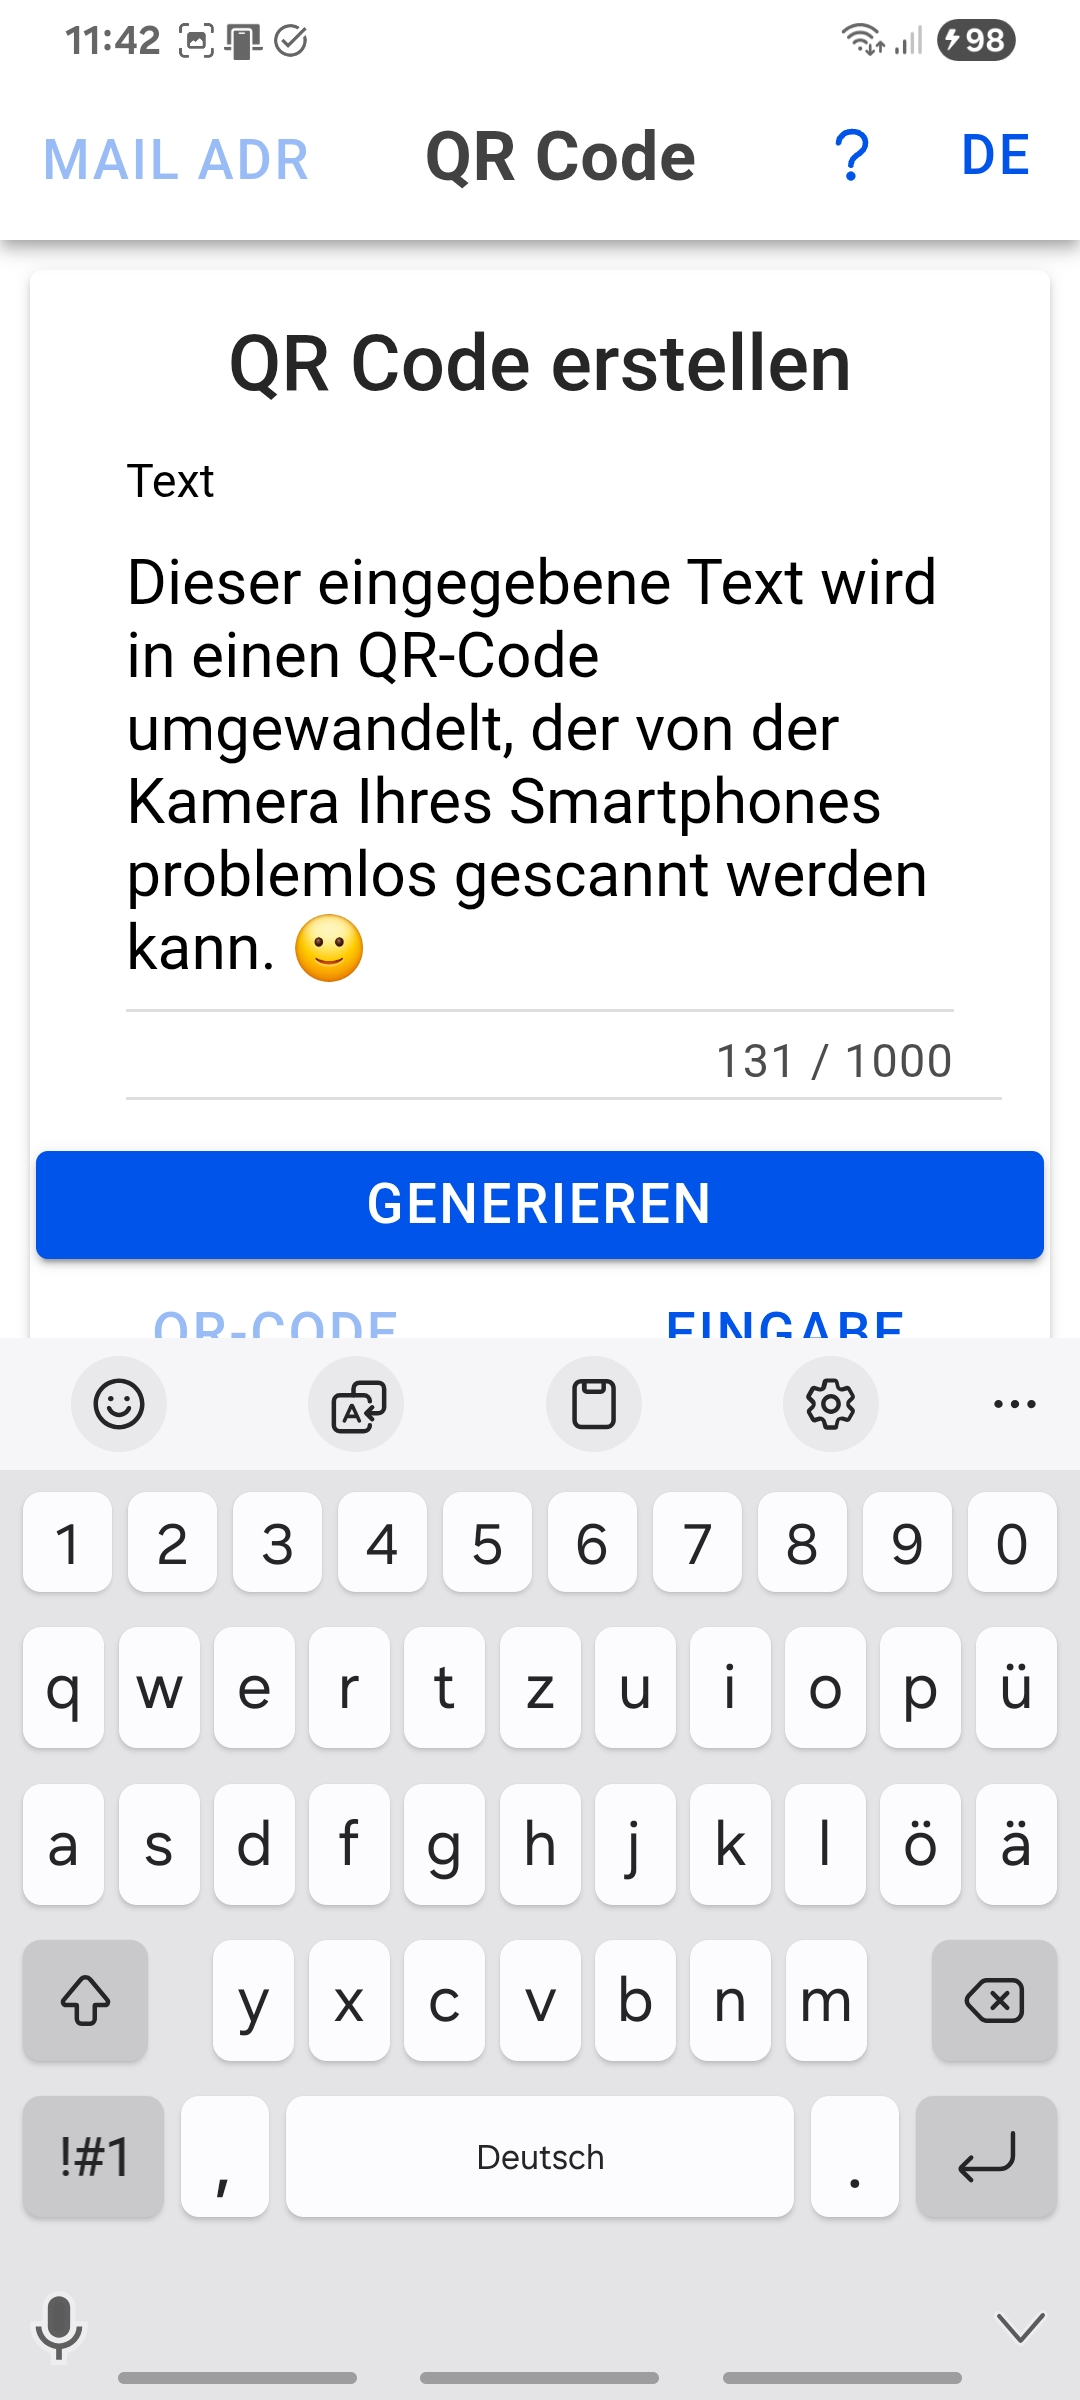
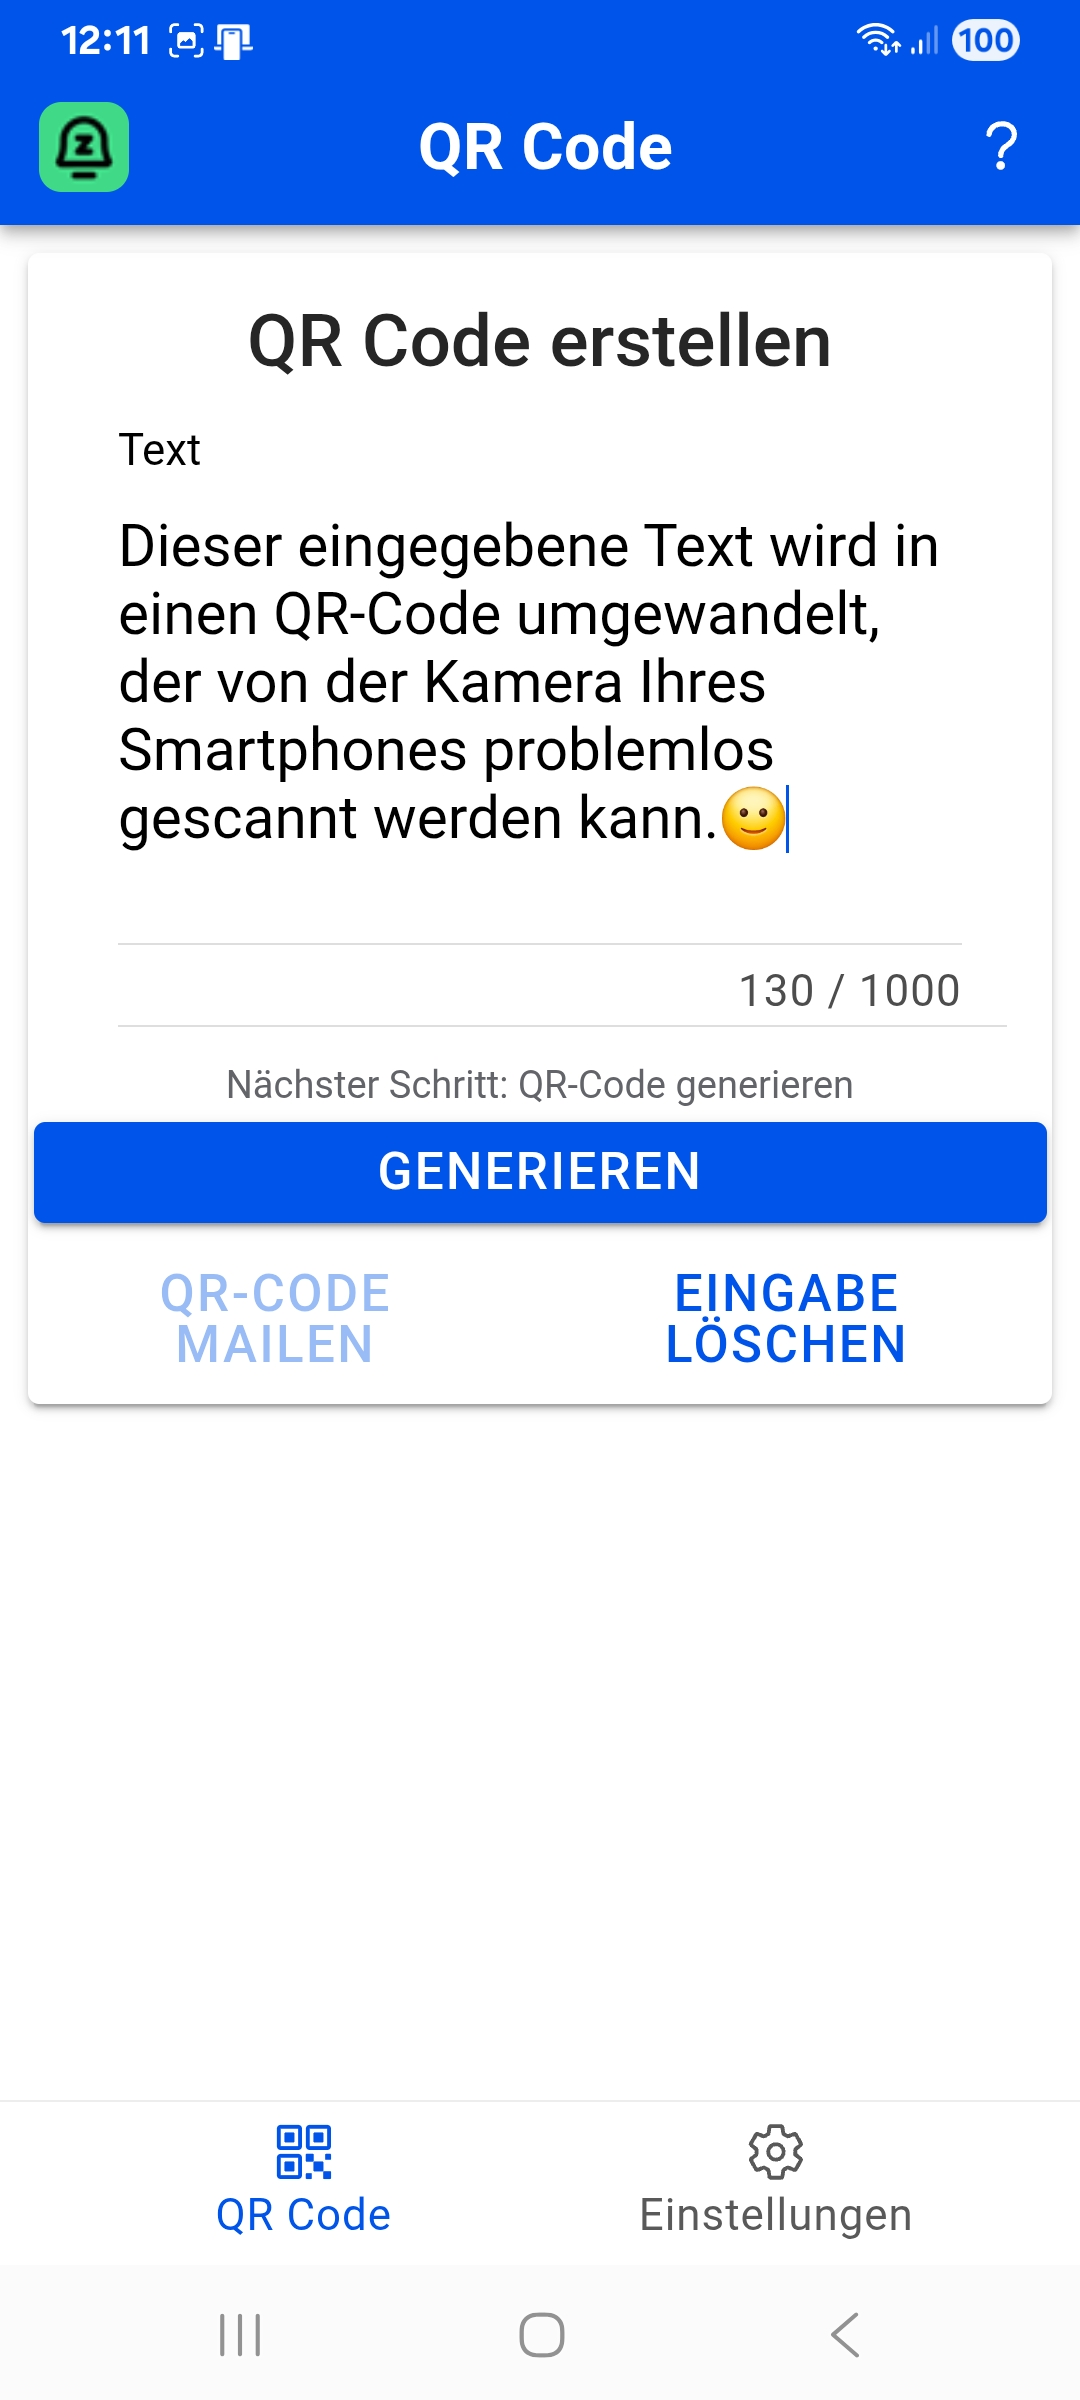
fix: display toast notifications below app header to prevent overlap
- Toast notifications are now shown below the app header, ensuring they are always visible and not obscured on any device.
- Updated screenshots for Google Play promotion.

diff --git a/src/app/tab-qr/tab-qr.page.ts b/src/app/tab-qr/tab-qr.page.ts
@@ -63,7 +63,7 @@ export class TabQrPage implements OnInit, OnDestroy {
     private readonly alertController: AlertController,
     private readonly alertService: AlertService,
     private readonly toastService: ToastService,
-    private readonly printUtilsService: PrintUtilsService,
+    private readonly printUtilsService: PrintUtilsService
   ) {
     this.setNumberOfRows();
     this.langSub = this.localStorage.selectedLanguage$.subscribe((lang) => {
@@ -220,7 +220,7 @@ export class TabQrPage implements OnInit, OnDestroy {
   handleSendEmailButtonClick() {
     if (!this.qrService.isQrCodeGenerated) {
       this.toastService
-        .showDisabledToast('TOOLTIP_EMAIL_NO_QR_GENERATED')
+        .showDisabledToast('TOOLTIP_EMAIL_NO_QR_GENERATED', 'toast-anchor-qr')
         .catch((error) => {
           console.error('Error presenting toast:', error);
         });
@@ -235,19 +235,28 @@ export class TabQrPage implements OnInit, OnDestroy {
     // show toast if disabled or generate qr code
     if (this.isInputFieldEmpty()) {
       this.toastService
-        .showDisabledToast('TOOLTIP_GENERATION_ENTER_TEXT_FIRST')
+        .showDisabledToast(
+          'TOOLTIP_GENERATION_ENTER_TEXT_FIRST',
+          'toast-anchor-qr'
+        )
         .catch((error) => {
           console.error('Error presenting toast:', error);
         });
     } else if (this.emailService.isEmailSent) {
       this.toastService
-        .showDisabledToast('TOOLTIP_GENERATION_EMAIL_ALREADY_SENT')
+        .showDisabledToast(
+          'TOOLTIP_GENERATION_EMAIL_ALREADY_SENT',
+          'toast-anchor-qr'
+        )
         .catch((error) => {
           console.error('Error presenting toast:', error);
         });
     } else if (this.qrService.isQrCodeGenerated) {
       this.toastService
-        .showDisabledToast('TOOLTIP_GENERATION_QR_ALREADY_GENERATED')
+        .showDisabledToast(
+          'TOOLTIP_GENERATION_QR_ALREADY_GENERATED',
+          'toast-anchor-qr'
+        )
         .catch((error) => {
           console.error('Error presenting toast:', error);
         });
@@ -295,7 +304,8 @@ export class TabQrPage implements OnInit, OnDestroy {
     if (data.length !== trimmedData.length) {
       this.qrDataInput.value = trimmedData;
       this.toastService.showToast(
-        this.translate.instant('TOAST_TRAILING_BLANKS_REMOVED')
+        this.translate.instant('TOAST_TRAILING_BLANKS_REMOVED'),
+        'toast-anchor-qr'
       );
     }
     return trimmedData;
@@ -317,7 +327,8 @@ export class TabQrPage implements OnInit, OnDestroy {
       this.emailService.clearEmailSent();
       this.qrService.clearQrFields();
       this.toastService.showToast(
-        this.translate.instant('TOAST_QR_CODE_DELETED_AFTER_INPUT_CHANGE')
+        this.translate.instant('TOAST_QR_CODE_DELETED_AFTER_INPUT_CHANGE'),
+        'toast-anchor-qr'
       );
     }
   }

diff --git a/src/app/services/toast.service.ts b/src/app/services/toast.service.ts
@@ -14,39 +14,28 @@ export class ToastService {
     private readonly utilsService: UtilsService
   ) {}
 
-  async showDisabledToast(toastMsg: string) {
+  async showDisabledToast(toastMsg: string, anchorId?: string) {
     const translatedMsg = this.translate.instant(toastMsg);
 
-    const toast = await this.toastController.create({
-      message: translatedMsg,
-      duration: 3000,
-      position: this.getToastPosition(),
-      icon: 'information-circle',
-      color: 'medium',
-      buttons: [
-        {
-          text: 'OK',
-          role: 'cancel',
-        },
-      ],
-    });
-    await toast.present();
-  }
-
-  showToast(translatedToastMessage: string): void {
-    this.showToastMessage(translatedToastMessage).catch((error) => {
+    this.showToastMessage(translatedMsg, anchorId).catch((error) => {
       console.error('Error presenting toast:', error);
     });
   }
 
-  async showToastMessage(translatedToastMessage: string) {
+  showToast(translatedToastMessage: string, anchorId?: string): void {
+    this.showToastMessage(translatedToastMessage, anchorId).catch((error) => {
+      console.error('Error presenting toast:', error);
+    });
+  }
+
+  async showToastMessage(translatedToastMessage: string, anchorId?: string) {
     const toast = await this.toastController.create({
       message: translatedToastMessage,
       duration: 3000,
       icon: 'information-circle',
       color: 'medium',
       position: this.getToastPosition(),
-      positionAnchor: this.getToastAnchor(),
+      positionAnchor: this.getToastAnchor(anchorId),
       buttons: [
         {
           icon: 'close',
@@ -65,11 +54,11 @@ export class ToastService {
     return 'top';
   }
 
-    private getToastAnchor(): 'app-header' | '' {
+  private getToastAnchor(anchorId?: string): string {
     if (this.utilsService.isDesktop) {
       return '';
     }
     // On mobile devices, display toast below the header prevent it from being obscured by the header bar.
-    return 'app-header';
+    return anchorId || 'toast-anchor-settings';
   }
 }

diff --git a/src/global.scss b/src/global.scss
@@ -44,6 +44,12 @@ ion-app {
   padding: 0 16px;
 }
 
+#toast-anchor-qr,
+#toast-anchor-settings {
+  margin: 0;
+  padding: 0;
+}
+
 .web-app ion-header {
   margin-top: -25px !important;
 }
@@ -97,7 +103,8 @@ ion-header ion-toolbar:first-of-type {
   }
 }
 
-@media (orientation: landscape) {
+@media (orientation: landscape) and (max-height: 500px) {
+  // exclude tablets
   .native-app {
     .buttons-last-slot {
       margin-right: 36px;

diff --git a/src/app/tab-qr/tab-qr.page.html b/src/app/tab-qr/tab-qr.page.html
@@ -1,4 +1,6 @@
-<app-header [currentTab]="Tab.Qr"></app-header>
+<div id="toast-anchor-qr">
+  <app-header [currentTab]="Tab.Qr"></app-header>
+</div>
 <ion-content
   class="qr-code-content"
   [class.landscape]="!utilsService.isPortrait"

diff --git a/src/app/tab-settings/tab-settings.page.html b/src/app/tab-settings/tab-settings.page.html
@@ -1,4 +1,6 @@
-<app-header [currentTab]="Tab.Settings"></app-header>
+<div id="toast-anchor-settings">
+  <app-header [currentTab]="Tab.Settings"></app-header>
+</div>
 <ion-content
   #content
   class="qr-settings-content"

diff --git a/src/app/ui/components/header/header.component.html b/src/app/ui/components/header/header.component.html
@@ -1,5 +1,4 @@
 <ion-header
-  id="app-header"
   class="app-header"
   [class.landscape]="!utilsService.isPortrait"
 >
